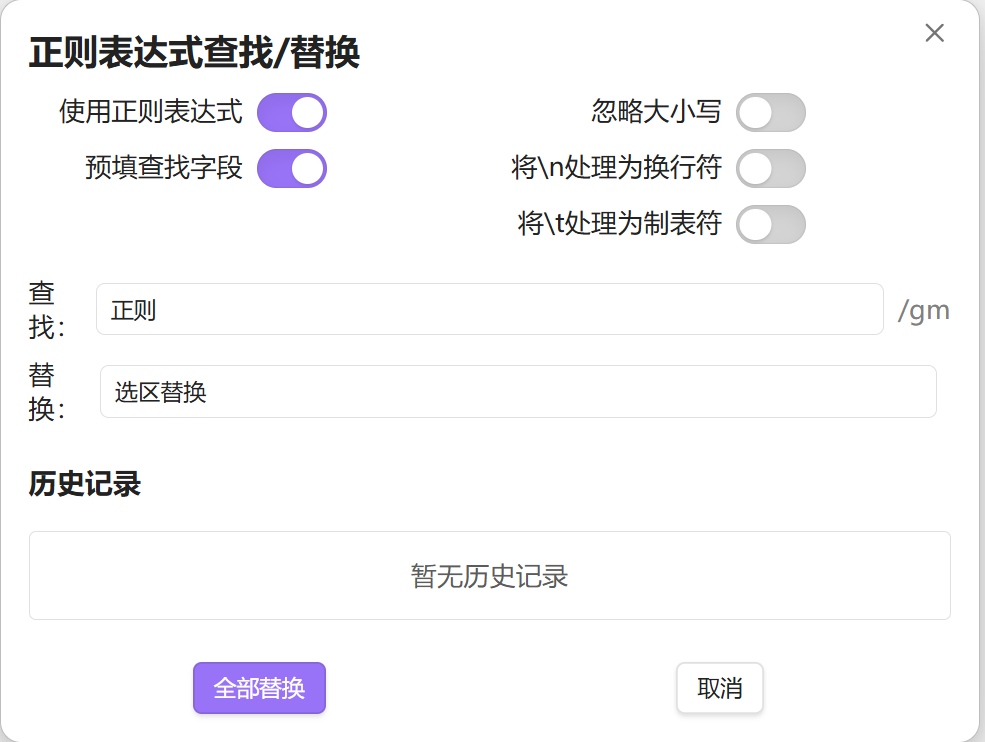
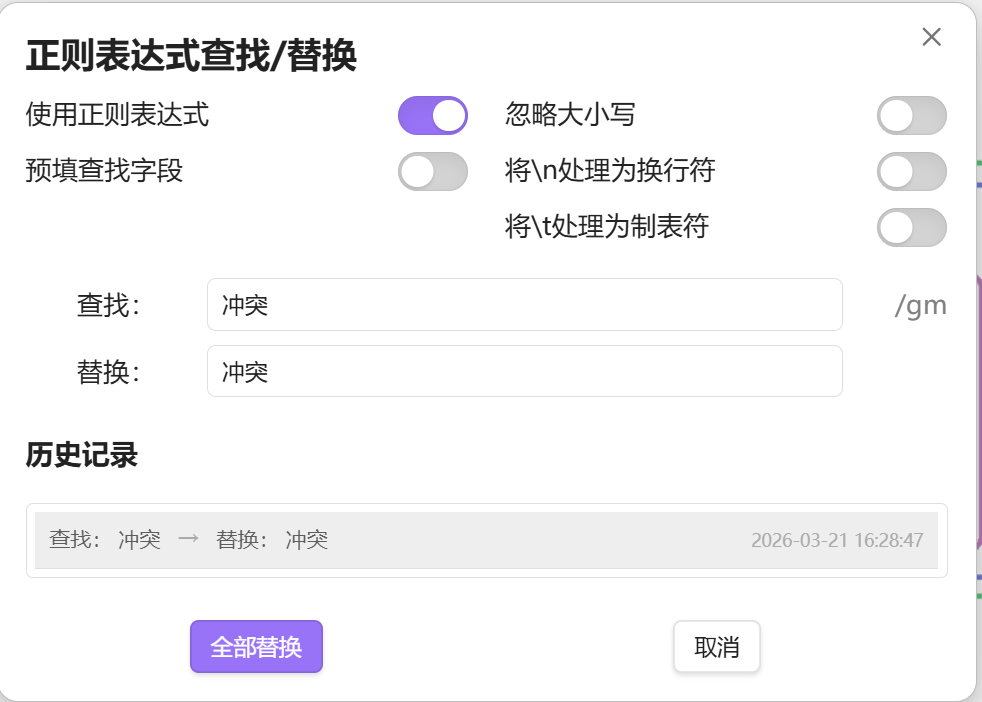
docs: 更新英文README文档并添加新功能截图
- 添加项目代码结构说明
- 新增如何添加新语言的详细指南
- 更新界面截图展示新功能
- 完善功能描述和安装说明

diff --git a/README-en.md b/README-en.md
@@ -1,12 +1,27 @@
 # Obsidian Plugin - Regex Find & Replace(enhance)
-Provides a dialog to find and replace text in the currently opened note.
-In addition to Obsidians on-board find/repace function, this plugin provides options to
-- use regular expressions or just plain text
-- replace found occurances in the currently slected text or in the whole document
+>This plugin is based on the [Gru80/obsidian-regex-replace](https://github.com/Gru80/obsidian-regex-replace) project, with enhanced functionality.
 
-Desktop as well as mobile versions of Obsidian are supported.
+>Chinese document: [中文文档](README.md)
 
-![Regex FindReplace Dialog](res/dialog.png)
+## Features
+
+### Original Features
+
+- Provides a dialog to find and replace text in the currently opened note
+- Use regular expressions or plain text
+- Replace matches in the currently selected text or the entire document
+
+### New Features
+
+- English/Chinese interface switching
+- Keep history records for easy reuse of previous find/replace patterns
+- Mouse hover over "toggle switches" for feature descriptions
+
+## Interface Display
+![Plugin Page](res/插件页面-en.png)
+![Settings Page](res/设置页面-en.png)
+![Mouse hover over toggle button has tooltip](res/鼠标悬浮切换按钮有提示信息-en.png)
+
 
 ## How to use
 - Run `Regex Find & Replace(enhance): Find and Replace using regular expressions` from the command palette or
@@ -38,17 +53,55 @@ The plugin can also be installed manually from the repository:
 - Disable Safe Mode in the `Community Plugins` tab (this enables community plugins to be enabled)
 - Enable the new plugin
 
-## Version History
-### 1.0.0
-Initial release
+## Project Code Structure
 
-### 1.1.0
-- Case insensitive search can now be enabled in the settings panel of the plugin (regex flag /i)
-- Find-in-selection toggle switch is disabled if no text is selected in the note
-- Performance improvements and bug-fixes
+```
+src/
+├── lang/
+│   ├── en.ts          # English translation
+│   ├── index.ts       # Language index
+│   └── zh.ts          # Chinese translation
+├── types/
+│   ├── HistoryItemInterface.ts          # History item interface
+│   ├── LanguageTranslationInterface.ts  # Language translation interface
+│   └── SettingsInfoInterface.ts         # Settings info interface
+└── main.ts            # Main file
+```
 
-### 1.2.0
-- Option to interpret `\n` in repleace field to insert line-break accordingly
-- Option to pre-fill the find-field with the selected word or phrase
-- Used regex-modifier flags are shown in the dialog
+## How to Add New Language
+
+To add a new language support for the plugin, follow these steps:
+
+1. **Create language file**: Create a new language file in the `src/lang/` directory, for example `fr.ts` (French)
+
+2. **Implement language interface**: In the newly created language file, implement the `LanguageTranslationInterface` interface, ensuring all required text fields are included
+
+3. **Define translation content**: Define translation content following the same structure as existing language files, ensuring all required text is included
+
+4. **Update language type enum**: In the `src/lang/index.ts` file, add the new language type to the `languageType` enum
+
+5. **Add language to language pack**: In the `src/lang/index.ts` file, add the new language translation pack to the `languages` object
+
+6. **Import new language file**: Import the newly created language file in the `src/lang/index.ts` file
+
+Example:
+
+```typescript
+// Add new language in src/lang/index.ts
+import fr from './fr';
+
+export enum languageType {
+    en = 'english',
+    zh = '中文',
+    fr = 'Français'  // Add French
+}
+
+const languages: Record<languageType, LanguageTranslationInterface> = {
+    [languageType.en]: en,
+    [languageType.zh]: zh,
+    [languageType.fr]: fr  // Add French translation pack
+};
+```
+
+After completing the above steps, the plugin will support the newly added language, and users can select to use it in the settings.
  
